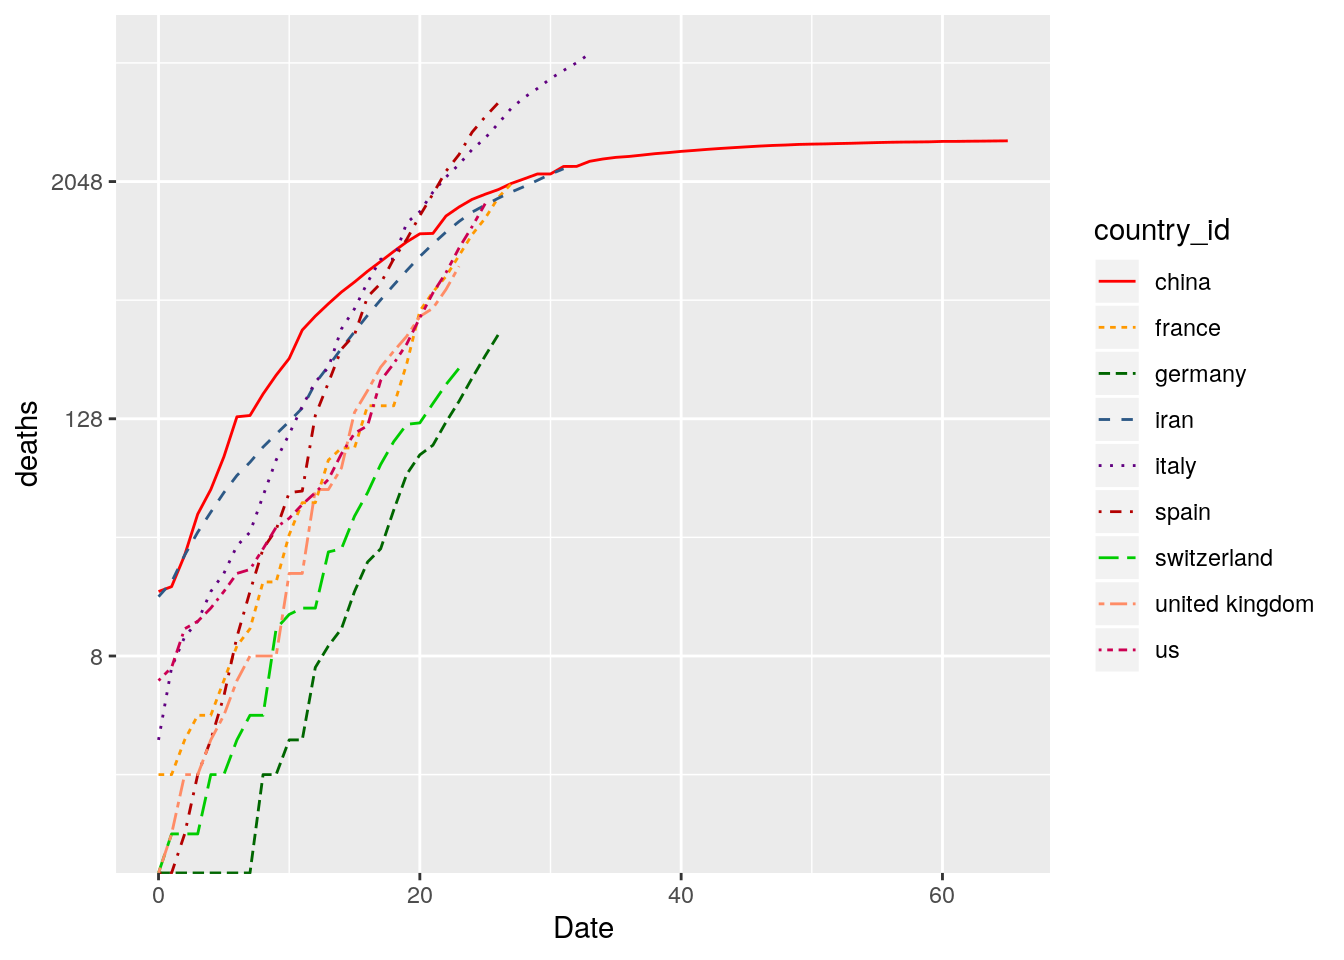
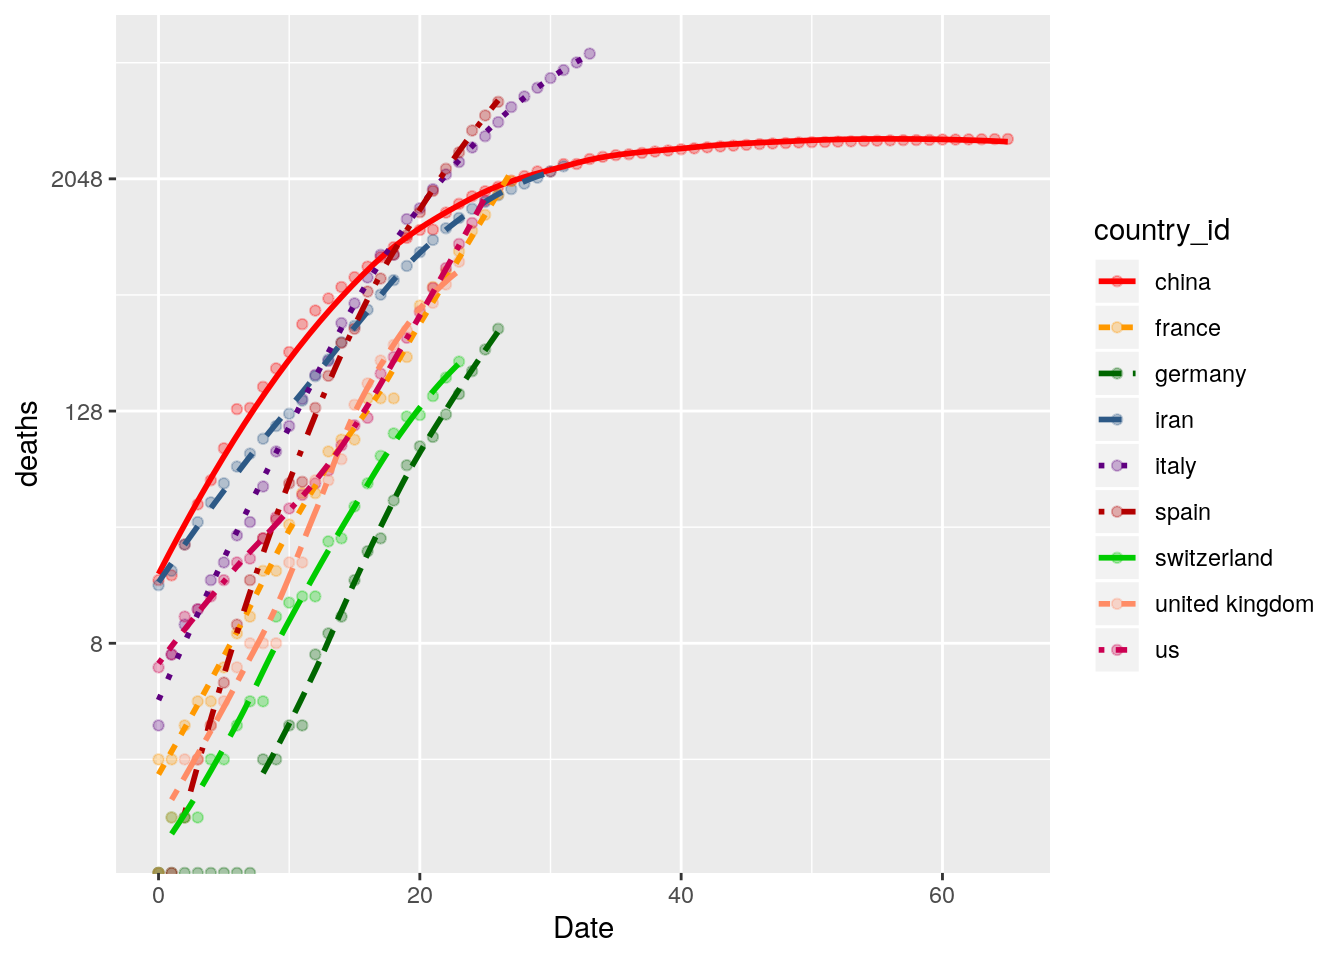
Add predicted cases

diff --git a/random_r_stuff.html b/random_r_stuff.html
@@ -654,9 +654,10 @@ Evolution of the number of confirmed cases in log2 scale
 <a class="sourceLine" id="cb13-3" data-line-number="3"><span class="st">   </span><span class="kw">group_by</span>(country_id) <span class="op">%&gt;%</span><span class="st"> </span></a>
 <a class="sourceLine" id="cb13-4" data-line-number="4"><span class="st">   </span><span class="kw">arrange</span>(Date) <span class="op">%&gt;%</span><span class="st"> </span></a>
 <a class="sourceLine" id="cb13-5" data-line-number="5"><span class="st">   </span><span class="kw">mutate</span>(<span class="dt">Date =</span> Date <span class="op">-</span><span class="st"> </span>dplyr<span class="op">::</span><span class="kw">first</span>(Date)) <span class="op">%&gt;%</span><span class="st"> </span></a>
-<a class="sourceLine" id="cb13-6" data-line-number="6"><span class="st">   </span><span class="kw">ggplot</span>() <span class="op">+</span><span class="st"> </span><span class="kw">geom_line</span>(<span class="kw">aes</span>(<span class="dt">x=</span> Date, <span class="dt">y =</span> Cases, <span class="dt">linetype=</span>country_id, <span class="dt">col =</span> country_id, ))  <span class="op">+</span></a>
-<a class="sourceLine" id="cb13-7" data-line-number="7"><span class="st">   </span><span class="kw">scale_color_manual</span>(<span class="dt">values =</span> couleurs)  <span class="op">+</span><span class="st"> </span></a>
-<a class="sourceLine" id="cb13-8" data-line-number="8"><span class="st">   </span><span class="kw">scale_y_continuous</span>(<span class="dt">trans=</span><span class="st">&#39;log2&#39;</span>) </a></code></pre></div>
+<a class="sourceLine" id="cb13-6" data-line-number="6"><span class="st">   </span><span class="kw">ggplot</span>()  <span class="op">+</span><span class="st">   </span><span class="kw">geom_point</span>(<span class="kw">aes</span>(<span class="dt">x=</span> Date, <span class="dt">y =</span> Cases, <span class="dt">col =</span> country_id), <span class="dt">alpha =</span> <span class="fl">0.3</span>)  <span class="op">+</span></a>
+<a class="sourceLine" id="cb13-7" data-line-number="7"><span class="st">   </span><span class="kw">geom_smooth</span>(<span class="kw">aes</span>(<span class="dt">x=</span> Date, <span class="dt">y =</span> Cases, <span class="dt">linetype=</span>country_id, <span class="dt">col =</span> country_id), <span class="dt">se =</span> <span class="ot">FALSE</span>) <span class="op">+</span></a>
+<a class="sourceLine" id="cb13-8" data-line-number="8"><span class="st">   </span><span class="kw">scale_color_manual</span>(<span class="dt">values =</span> couleurs) <span class="op">+</span><span class="st"> </span></a>
+<a class="sourceLine" id="cb13-9" data-line-number="9"><span class="st">   </span><span class="kw">scale_y_continuous</span>(<span class="dt">trans=</span><span class="st">&#39;log2&#39;</span>) </a></code></pre></div>
 <div class="figure">
 <img src="random_r_stuff_files/figure-html/unnamed-chunk-10-1.png" alt="Evolution of confirmed cases, time elapsed since the 80th reported cases" width="672" />
 <p class="caption">
@@ -673,8 +674,8 @@ Evolution of confirmed cases, time elapsed since the 80th reported cases
 <a class="sourceLine" id="cb14-4" data-line-number="4"><span class="st">   </span><span class="kw">group_by</span>(country_id) <span class="op">%&gt;%</span><span class="st"> </span></a>
 <a class="sourceLine" id="cb14-5" data-line-number="5"><span class="st">   </span><span class="kw">arrange</span>(Date) <span class="op">%&gt;%</span><span class="st"> </span></a>
 <a class="sourceLine" id="cb14-6" data-line-number="6"><span class="st">   </span><span class="kw">mutate</span>(<span class="dt">Date =</span> Date <span class="op">-</span><span class="st"> </span>dplyr<span class="op">::</span><span class="kw">first</span>(Date)) <span class="op">%&gt;%</span><span class="st"> </span></a>
-<a class="sourceLine" id="cb14-7" data-line-number="7"><span class="st">   </span><span class="kw">ggplot</span>() <span class="op">+</span><span class="st"> </span></a>
-<a class="sourceLine" id="cb14-8" data-line-number="8"><span class="st">   </span><span class="kw">geom_line</span>(<span class="kw">aes</span>(<span class="dt">x=</span> Date, <span class="dt">y =</span> deaths, <span class="dt">linetype=</span>country_id, <span class="dt">col =</span> country_id)) <span class="op">+</span></a>
+<a class="sourceLine" id="cb14-7" data-line-number="7"><span class="st">   </span><span class="kw">ggplot</span>() <span class="op">+</span><span class="st">   </span><span class="kw">geom_point</span>(<span class="kw">aes</span>(<span class="dt">x=</span> Date, <span class="dt">y =</span> deaths, <span class="dt">col =</span> country_id), <span class="dt">alpha =</span> <span class="fl">0.3</span>)  <span class="op">+</span></a>
+<a class="sourceLine" id="cb14-8" data-line-number="8"><span class="st">   </span><span class="kw">geom_smooth</span>(<span class="kw">aes</span>(<span class="dt">x=</span> Date, <span class="dt">y =</span> deaths, <span class="dt">linetype=</span>country_id, <span class="dt">col =</span> country_id), <span class="dt">se =</span> <span class="ot">FALSE</span>) <span class="op">+</span></a>
 <a class="sourceLine" id="cb14-9" data-line-number="9"><span class="st">   </span><span class="kw">scale_color_manual</span>(<span class="dt">values =</span> couleurs) <span class="op">+</span></a>
 <a class="sourceLine" id="cb14-10" data-line-number="10"><span class="st">   </span><span class="kw">scale_y_continuous</span>(<span class="dt">trans=</span><span class="st">&#39;log2&#39;</span>)</a></code></pre></div>
 <div class="figure">
@@ -690,9 +691,10 @@ Evolution of the number of deaths, time elapsed since the 80th reported cases
 <a class="sourceLine" id="cb15-4" data-line-number="4"><span class="st">   </span><span class="kw">group_by</span>(country_id) <span class="op">%&gt;%</span><span class="st"> </span></a>
 <a class="sourceLine" id="cb15-5" data-line-number="5"><span class="st">   </span><span class="kw">arrange</span>(Date) <span class="op">%&gt;%</span><span class="st"> </span></a>
 <a class="sourceLine" id="cb15-6" data-line-number="6"><span class="st">   </span><span class="kw">mutate</span>(<span class="dt">Date =</span> Date <span class="op">-</span><span class="st"> </span>dplyr<span class="op">::</span><span class="kw">first</span>(Date)) <span class="op">%&gt;%</span><span class="st"> </span></a>
-<a class="sourceLine" id="cb15-7" data-line-number="7"><span class="st">   </span><span class="kw">ggplot</span>() <span class="op">+</span><span class="st"> </span><span class="kw">geom_line</span>(<span class="kw">aes</span>(<span class="dt">x=</span> Date, <span class="dt">y =</span> deaths, <span class="dt">linetype=</span>country_id, <span class="dt">col =</span> country_id))  <span class="op">+</span></a>
-<a class="sourceLine" id="cb15-8" data-line-number="8"><span class="st">   </span><span class="kw">scale_color_manual</span>(<span class="dt">values =</span> couleurs)  <span class="op">+</span></a>
-<a class="sourceLine" id="cb15-9" data-line-number="9"><span class="st">   </span><span class="kw">scale_y_continuous</span>(<span class="dt">trans=</span><span class="st">&#39;log2&#39;</span>) </a></code></pre></div>
+<a class="sourceLine" id="cb15-7" data-line-number="7"><span class="st">   </span><span class="kw">ggplot</span>() <span class="op">+</span><span class="st"> </span><span class="kw">geom_point</span>(<span class="kw">aes</span>(<span class="dt">x=</span> Date, <span class="dt">y =</span> deaths, <span class="dt">col =</span> country_id), <span class="dt">alpha =</span> <span class="fl">0.3</span>)  <span class="op">+</span></a>
+<a class="sourceLine" id="cb15-8" data-line-number="8"><span class="st">   </span><span class="kw">geom_smooth</span>(<span class="kw">aes</span>(<span class="dt">x=</span> Date, <span class="dt">y =</span> deaths, <span class="dt">linetype=</span>country_id, <span class="dt">col =</span> country_id), <span class="dt">se =</span> <span class="ot">FALSE</span>) <span class="op">+</span></a>
+<a class="sourceLine" id="cb15-9" data-line-number="9"><span class="st">   </span><span class="kw">scale_color_manual</span>(<span class="dt">values =</span> couleurs)  <span class="op">+</span></a>
+<a class="sourceLine" id="cb15-10" data-line-number="10"><span class="st">   </span><span class="kw">scale_y_continuous</span>(<span class="dt">trans=</span><span class="st">&#39;log2&#39;</span>) </a></code></pre></div>
 <div class="figure">
 <img src="random_r_stuff_files/figure-html/origine_death-1.png" alt="Evolution of the number of deaths, time elapsed since the 10th death" width="672" />
 <p class="caption">
@@ -720,6 +722,50 @@ Evolution of the number of deaths, time elapsed since the 10th death
 Evolution of the number of new deaths, time elapsed since the 10th death, log2 scale
 </p>
 </div>
+</div>
+<div id="link-between-confirmed-cases-and-deaths" class="section level3">
+<h3>Link between Confirmed cases and deaths</h3>
+<div class="sourceCode" id="cb17"><pre class="sourceCode r"><code class="sourceCode r"><a class="sourceLine" id="cb17-1" data-line-number="1">dta <span class="op">%&gt;%</span><span class="st"> </span></a>
+<a class="sourceLine" id="cb17-2" data-line-number="2"><span class="st">   </span><span class="kw">pivot_wider</span>(<span class="dt">names_from =</span> type, <span class="dt">values_from =</span> Cases) <span class="op">%&gt;%</span><span class="st"> </span></a>
+<a class="sourceLine" id="cb17-3" data-line-number="3"><span class="st">   </span><span class="kw">filter</span>( deaths <span class="op">&gt;=</span><span class="st"> </span><span class="dv">10</span>,Severity <span class="op">==</span><span class="st"> &#39;Very High&#39;</span>) <span class="op">%&gt;%</span><span class="st"> </span></a>
+<a class="sourceLine" id="cb17-4" data-line-number="4"><span class="st">   </span><span class="kw">group_by</span>(country_id) <span class="op">%&gt;%</span><span class="st"> </span></a>
+<a class="sourceLine" id="cb17-5" data-line-number="5"><span class="st">   </span><span class="kw">arrange</span>(Date)  <span class="op">%&gt;%</span><span class="st"> </span></a>
+<a class="sourceLine" id="cb17-6" data-line-number="6"><span class="st">   </span><span class="kw">mutate</span>(<span class="dt">Date =</span> Date <span class="op">-</span><span class="st"> </span>dplyr<span class="op">::</span><span class="kw">first</span>(Date)) <span class="op">%&gt;%</span><span class="st"> </span></a>
+<a class="sourceLine" id="cb17-7" data-line-number="7"><span class="st">   </span><span class="kw">ggplot</span>() <span class="op">+</span><span class="st"> </span><span class="kw">geom_point</span>(<span class="kw">aes</span>(<span class="dt">y  =</span> confirmed, <span class="dt">x =</span> deaths, <span class="dt">col =</span> country_id), <span class="dt">alpha =</span> <span class="fl">0.3</span>)  <span class="op">+</span></a>
+<a class="sourceLine" id="cb17-8" data-line-number="8"><span class="st">   </span><span class="kw">geom_smooth</span>(<span class="kw">aes</span>( <span class="dt">y =</span> confirmed, <span class="dt">x =</span> deaths, <span class="dt">linetype=</span>country_id, <span class="dt">col =</span> country_id), <span class="dt">se =</span> <span class="ot">FALSE</span>) <span class="op">+</span></a>
+<a class="sourceLine" id="cb17-9" data-line-number="9"><span class="st">   </span><span class="kw">scale_color_manual</span>(<span class="dt">values =</span> couleurs) </a></code></pre></div>
+<div class="figure">
+<img src="random_r_stuff_files/figure-html/confirmed_death-1.png" alt="Number of Confirmed cases  as a function of deaths" width="672" />
+<p class="caption">
+Number of Confirmed cases as a function of deaths
+</p>
+</div>
+<p>I would like to have a better idea of the actual number of confirmed cases in every country. The best indicator of the pandemy beeing the number of deaths I would like to predict the number of actual cases given the number of deaths. As illustrated on the graphs, there is a linear relationship between the two quantities, the slope depends on the letality within a given country and more importantly of the testing strategy. As Germany has experienced large testing strategy, we could predict the numer of cases in every country if the same testing had been applied (assumed the same lethality in every country.</p>
+<div class="sourceCode" id="cb18"><pre class="sourceCode r"><code class="sourceCode r"><a class="sourceLine" id="cb18-1" data-line-number="1">dta <span class="op">%&gt;%</span><span class="st"> </span></a>
+<a class="sourceLine" id="cb18-2" data-line-number="2"><span class="st">   </span><span class="kw">pivot_wider</span>(<span class="dt">names_from =</span> type, <span class="dt">values_from =</span> Cases) <span class="op">%&gt;%</span><span class="st"> </span></a>
+<a class="sourceLine" id="cb18-3" data-line-number="3"><span class="st">   </span><span class="kw">filter</span>( deaths <span class="op">&gt;=</span><span class="st"> </span><span class="dv">10</span>,Severity <span class="op">==</span><span class="st"> &#39;Very High&#39;</span>) <span class="op">%&gt;%</span><span class="st"> </span></a>
+<a class="sourceLine" id="cb18-4" data-line-number="4"><span class="st">   </span><span class="kw">mutate</span>(<span class="dt">country_id =</span> <span class="kw">relevel</span>(country_id, <span class="dt">ref =</span> <span class="st">&#39;germany&#39;</span>)) -&gt;<span class="st"> </span>dta_lm</a>
+<a class="sourceLine" id="cb18-5" data-line-number="5"></a>
+<a class="sourceLine" id="cb18-6" data-line-number="6">lm1 &lt;-<span class="st"> </span><span class="kw">lm</span>( confirmed <span class="op">~</span><span class="st"> </span>deaths  <span class="op">+</span><span class="st"> </span>country_id <span class="op">+</span><span class="st"> </span>deaths<span class="op">:</span>country_id, <span class="dt">data =</span>dta_lm)</a>
+<a class="sourceLine" id="cb18-7" data-line-number="7"></a>
+<a class="sourceLine" id="cb18-8" data-line-number="8">dta_lm <span class="op">%&gt;%</span><span class="st">    </span></a>
+<a class="sourceLine" id="cb18-9" data-line-number="9"><span class="st">   </span><span class="kw">mutate</span>(<span class="dt">confirmed_pred =</span> <span class="kw">coef</span>(lm1)[<span class="dv">1</span>] <span class="op">+</span><span class="st"> </span><span class="kw">coef</span>(lm1)[<span class="dv">2</span>] <span class="op">*</span><span class="st"> </span>deaths) -&gt;<span class="st"> </span>dta_lm</a>
+<a class="sourceLine" id="cb18-10" data-line-number="10"></a>
+<a class="sourceLine" id="cb18-11" data-line-number="11">dta_lm <span class="op">%&gt;%</span></a>
+<a class="sourceLine" id="cb18-12" data-line-number="12"><span class="st">   </span><span class="kw">filter</span>( Severity <span class="op">==</span><span class="st"> &#39;Very High&#39;</span>) <span class="op">%&gt;%</span><span class="st">   </span><span class="kw">filter</span>(Date <span class="op">==</span><span class="st"> </span><span class="kw">max</span>(Date)) <span class="op">%&gt;%</span><span class="st"> </span></a>
+<a class="sourceLine" id="cb18-13" data-line-number="13"><span class="st">   </span><span class="kw">ggplot</span>() <span class="op">+</span><span class="st"> </span><span class="kw">geom_point</span>(<span class="kw">aes</span>(<span class="dt">y  =</span> confirmed_pred, <span class="dt">x =</span> confirmed, <span class="dt">col =</span> country_id))   <span class="op">+</span><span class="st"> </span><span class="kw">geom_abline</span>(<span class="dt">slope =</span> <span class="dv">1</span>, <span class="dt">intercept =</span> <span class="dv">0</span>) <span class="op">+</span></a>
+<a class="sourceLine" id="cb18-14" data-line-number="14"><span class="st">   </span><span class="kw">scale_color_manual</span>(<span class="dt">values =</span> couleurs) </a></code></pre></div>
+<p><img src="random_r_stuff_files/figure-html/unnamed-chunk-12-1.png" width="672" /></p>
+<p>Assuming that the predicted number of cases is more realistic than the reported number of cases, we could match the dynamic of pandemy, using the date of the 200th predicted cases. It is also possible to compare the declared confirmed of cases and the predicted numer of cases (if every county had used the German startegy).</p>
+<div class="sourceCode" id="cb19"><pre class="sourceCode r"><code class="sourceCode r"><a class="sourceLine" id="cb19-1" data-line-number="1">dta_lm <span class="op">%&gt;%</span><span class="st"> </span></a>
+<a class="sourceLine" id="cb19-2" data-line-number="2"><span class="st">   </span><span class="kw">filter</span>( confirmed_pred <span class="op">&gt;=</span><span class="st">  </span><span class="dv">200</span> , Severity <span class="op">==</span><span class="st"> &#39;Very High&#39;</span>) <span class="op">%&gt;%</span><span class="st"> </span></a>
+<a class="sourceLine" id="cb19-3" data-line-number="3"><span class="st">   </span><span class="kw">group_by</span>(country_id) <span class="op">%&gt;%</span><span class="st"> </span></a>
+<a class="sourceLine" id="cb19-4" data-line-number="4"><span class="st">   </span><span class="kw">arrange</span>(Date)  <span class="op">%&gt;%</span><span class="st"> </span></a>
+<a class="sourceLine" id="cb19-5" data-line-number="5"><span class="st">   </span><span class="kw">mutate</span>(<span class="dt">Date =</span> Date <span class="op">-</span><span class="st"> </span>dplyr<span class="op">::</span><span class="kw">first</span>(Date)) <span class="op">%&gt;%</span><span class="st"> </span><span class="kw">pivot_longer</span>(<span class="dt">cols =</span> <span class="kw">c</span>(<span class="st">&#39;confirmed&#39;</span>, <span class="st">&#39;confirmed_pred&#39;</span>), <span class="dt">names_to =</span> <span class="st">&#39;type&#39;</span>, <span class="dt">values_to =</span> <span class="st">&#39;Cases&#39;</span>) <span class="op">%&gt;%</span><span class="st">    </span><span class="kw">ggplot</span>() <span class="op">+</span><span class="st"> </span><span class="kw">facet_wrap</span>(<span class="op">~</span>country_id) <span class="op">+</span></a>
+<a class="sourceLine" id="cb19-6" data-line-number="6"><span class="st">   </span><span class="kw">geom_point</span>(<span class="kw">aes</span>(<span class="dt">y  =</span> Cases, <span class="dt">x =</span> Date, <span class="dt">col =</span> country_id, <span class="dt">linetype =</span> type), <span class="dt">size =</span> <span class="fl">0.2</span>, <span class="dt">alpha =</span> <span class="fl">0.3</span>) <span class="op">+</span></a>
+<a class="sourceLine" id="cb19-7" data-line-number="7"><span class="st">   </span><span class="kw">geom_smooth</span>(<span class="kw">aes</span>( <span class="dt">y  =</span> Cases, <span class="dt">x =</span> Date, <span class="dt">col =</span> country_id, <span class="dt">linetype =</span> type),  <span class="dt">se =</span> <span class="ot">FALSE</span>) <span class="op">+</span></a>
+<a class="sourceLine" id="cb19-8" data-line-number="8"><span class="st">   </span><span class="kw">scale_color_manual</span>(<span class="dt">values =</span> couleurs)</a></code></pre></div>
+<p><img src="random_r_stuff_files/figure-html/unnamed-chunk-13-1.png" width="672" /></p>
 </div>
 </div>
 
